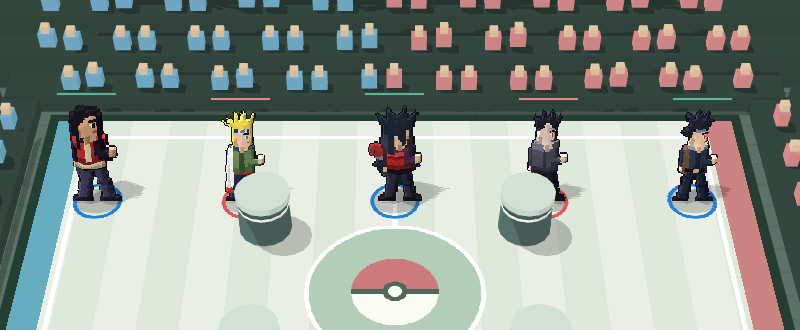
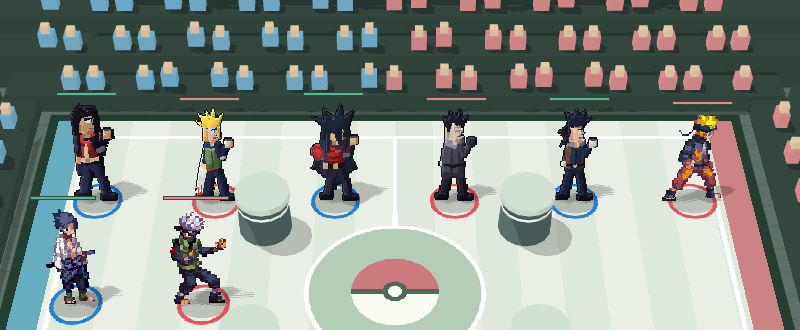
Naruto: os cinco lendários redesenhados (proporção de luta, mais detalhe)

diff --git a/ferramentas/sprites-lendarios.py b/ferramentas/sprites-lendarios.py
@@ -13,8 +13,8 @@ from PIL import Image, ImageDraw
 
 RAIZ = os.path.join(os.path.dirname(os.path.abspath(__file__)), "..")
 SAIDA = os.path.join(RAIZ, "public", "galeramon", "naruto-sprites")
-W, H = 40, 62
-DY = 5  # tudo é desenhado DY pixels mais para baixo, para as pontas do cabelo caberem em cima
+W, H = 42, 72
+DY = 9  # tudo é desenhado DY pixels mais para baixo, para as pontas do cabelo caberem em cima
 CONTORNO = (22, 18, 30, 255)
 
 
@@ -77,151 +77,167 @@ class Tela:
         return self.im
 
 
-# ---------- as peças que todos têm ----------
-def pernas(t, calca, sombra, sapato, b, afasta=0):
-    # a perna de trás e a da frente (a da frente vai um pouco mais para a frente)
-    # a guarda: a perna de trás vai para trás e a da frente se abre para a frente
-    t.pol([(14, 37), (20, 37), (17, 53), (11, 53)], sombra); t.pol([(14, 37), (19, 37), (15, 53), (11, 53)], calca)
-    t.pol([(21, 37), (27, 37), (31, 53), (25, 53)], calca); t.pol([(25, 37), (27, 37), (31, 53), (29, 53)], sombra)
-    t.ret(24, 45, 29, 46, sombra)  # o joelho
-    t.ret(8, 54, 17, 57, sapato); t.ret(24, 54, 34, 57, sapato)
-    t.ret(8, 57, 17, 57, sombra); t.ret(24, 57, 34, 57, sombra)
+# ---------- o esqueleto que todos têm ----------
+# Proporção de luta de anime: a cabeça tem uns 11 pixels, o tronco 17 e as pernas 22. De lado, com a guarda levantada.
+def pernas(t, calca, sombra, sapato, b):
+    # a perna de trás vai para trás, esticada; a da frente se dobra no joelho e pisa mais à frente
+    t.pol([(16, 36), (21, 36), (17, 57), (11, 57)], sombra)
+    t.pol([(16, 36), (20, 36), (15, 57), (11, 57)], calca)
+    t.pol([(21, 36), (26, 36), (29, 47), (24, 47)], calca); t.pol([(24, 36), (26, 36), (29, 47), (27, 47)], sombra)
+    t.pol([(24, 47), (29, 47), (31, 58), (26, 58)], calca); t.pol([(28, 47), (29, 47), (31, 58), (29, 58)], sombra)
+    t.ret(8, 57, 17, 60, sapato); t.ret(25, 58, 35, 61, sapato)
+    t.ret(8, 60, 17, 60, "#14101c"); t.ret(25, 61, 35, 61, "#14101c")
 
 
-def cabeca(t, pele, sombra, b, olho="#16121e", y0=7):
-    y = y0 - b
-    t.elipse(15, y, 26, y + 12, pele)
-    t.ret(16, y + 9, 25, y + 12, pele)
-    t.ret(15, y + 8, 17, y + 12, sombra)  # o lado de trás do rosto
-    t.ret(19, y + 12, 24, y + 14, pele)   # o queixo e o pescoço
-    t.ret(20, y + 12, 21, y + 15, sombra)
-    t.px(22, y + 6, "#f4f0ec"); t.px(23, y + 6, "#f4f0ec"); t.px(24, y + 6, olho); t.px(24, y + 7, olho); t.px(23, y + 7, "#f4f0ec")  # o olho (de lado)
-    t.ret(22, y + 4, 25, y + 4, "#16121e")  # a sobrancelha
-    t.px(26, y + 8, sombra); t.px(26, y + 9, sombra)  # o nariz
-    t.px(24, y + 10, "#8a5a50"); t.px(25, y + 10, "#8a5a50")  # a boca
+def pescoco(t, pele, sombra, b):
+    t.ret(19, 16 - b, 22, 20 - b, pele); t.ret(19, 16 - b, 20, 20 - b, sombra)
 
 
-def braco_de_tras(t, manga, sombra, mao, b):
-    t.ret(10, 23 - b, 13, 35 - b, sombra)
-    t.ret(10, 34 - b, 13, 36 - b, mao)
+def cabeca(t, pele, sombra, b, olho="#16121e", brilho=None):
+    y = 5 - b
+    t.elipse(15, y, 25, y + 11, pele)           # o crânio e o rosto
+    t.ret(16, y + 9, 25, y + 12, pele)           # a mandíbula
+    t.ret(15, y + 5, 17, y + 11, sombra)         # o lado de trás do rosto, na sombra
+    t.ret(22, y + 12, 24, y + 13, sombra)        # a sombra do queixo
+    t.px(26, y + 7, sombra); t.px(26, y + 8, sombra)                   # o nariz
+    t.ret(23, y + 10, 25, y + 10, "#8a5a50")                           # a boca
+    t.ret(21, y + 4, 25, y + 4, "#16121e")                             # a sobrancelha
+    t.ret(22, y + 5, 24, y + 6, "#f4f0ec"); t.px(24, y + 5, olho); t.px(24, y + 6, olho)  # o olho
+    if brilho:
+        t.px(23, y + 5, brilho)
 
 
-def braco_da_frente(t, manga, sombra, mao, b):
-    # o braço dobrado com o punho levantado, como na guarda dos sprites de DS
-    t.ret(24, 22 - b, 28, 29 - b, manga); t.ret(27, 22 - b, 28, 29 - b, sombra)
-    t.ret(25, 28 - b, 32, 32 - b, manga); t.ret(25, 31 - b, 32, 32 - b, sombra)
-    t.ret(31, 27 - b, 34, 31 - b, mao)
-    t.px(34, 27 - b, mao)
+def braco_de_tras(t, manga, sombra, pele, b):
+    t.pol([(14, 21 - b), (17, 21 - b), (15, 34 - b), (12, 34 - b)], sombra)
+    t.pol([(14, 21 - b), (16, 21 - b), (14, 34 - b), (12, 34 - b)], manga)
+    t.ret(11, 34 - b, 15, 37 - b, pele)
 
 
-def tronco(t, base, sombra, b, topo=20):
-    y = topo - b
-    t.ret(13, y + 1, 27, 37, base)
-    t.ret(12, y, 28, y + 3, base)
-    t.ret(24, y + 3, 27, 37, sombra)
-    t.ret(13, 35, 27, 37, sombra)
+def braco_da_frente(t, manga, sombra, pele, b, luva=None):
+    # o braço dobrado: o ombro, o cotovelo para baixo e o punho levantado na guarda
+    t.pol([(23, 21 - b), (27, 21 - b), (30, 30 - b), (26, 31 - b)], manga); t.pol([(26, 22 - b), (27, 21 - b), (30, 30 - b), (28, 31 - b)], sombra)
+    t.pol([(26, 29 - b), (30, 29 - b), (34, 22 - b), (30, 21 - b)], manga); t.pol([(29, 28 - b), (30, 29 - b), (34, 22 - b), (33, 21 - b)], sombra)
+    t.ret(31, 17 - b, 36, 22 - b, luva or pele); t.ret(31, 17 - b, 36, 17 - b, sombra if luva is None else "#2a2a34")
+
+
+def tronco(t, base, sombra, b):
+    t.pol([(15, 20 - b), (27, 20 - b), (26, 36), (15, 36)], base)
+    t.pol([(23, 21 - b), (27, 20 - b), (26, 36), (22, 36)], sombra)
+    t.ret(15, 33, 26, 36, sombra)
 
 
 def cinto(t, c, fivela, b=0):
-    t.ret(13, 34, 27, 35, c)
-    t.px(20, 34, fivela); t.px(21, 34, fivela)
+    t.ret(15, 33, 26, 35, c)
+    t.ret(19, 33, 21, 35, fivela)
 
 
 # ---------- cada ninja ----------
 def hashirama(t, b):
     pele, sp = "#c89a74", "#9c7250"
-    cabelo, cb = "#16121e", "#2c2a3c"
-    # o cabelo comprido, caindo pelas costas
-    t.pol([(11, 8 - b), (16, 5 - b), (25, 6 - b), (27, 12 - b), (28, 30), (25, 42), (13, 41), (10, 30), (10, 14 - b)], cabelo)
-    t.ret(12, 22, 14, 41, cb)
-    pernas(t, "#3c3c58", "#2a2a40", "#1c1824", b)
-    braco_de_tras(t, "#16121e", "#16121e", pele, b)
-    tronco(t, "#1c1824", "#120e18", b)
-    # a armadura vermelha: o peitoral, as ombreiras e a faixa
-    t.ret(13, 22 - b, 27, 33, "#b02c2c"); t.ret(24, 24 - b, 27, 33, "#7a1c24"); t.ret(13, 31, 27, 33, "#7a1c24")
-    t.ret(11, 20 - b, 16, 25 - b, "#c43838"); t.ret(11, 24 - b, 16, 25 - b, "#7a1c24")
-    t.ret(24, 20 - b, 29, 25 - b, "#c43838"); t.ret(24, 24 - b, 29, 25 - b, "#7a1c24")
-    t.ret(19, 22 - b, 21, 32, "#d8c8a0")  # o detalhe branco do meio
-    t.ret(13, 34, 27, 36, "#d8c8a0"); t.ret(13, 36, 27, 36, "#a89878")  # o cinto
-    braco_da_frente(t, "#1c1824", "#120e18", pele, b)
+    cabelo, cb, cc = "#14101c", "#2a2a3c", "#3c3c52"
+    # o cabelo comprido e liso, caindo pelas costas até a cintura
+    t.pol([(12, 7 - b), (16, 2 - b), (26, 3 - b), (28, 9 - b), (29, 30), (27, 46), (17, 47), (11, 40), (11, 26), (11, 12 - b)], cabelo)
+    t.pol([(11, 18), (13, 18), (14, 44), (11, 44)], cb)
+    pernas(t, "#2c3050", "#1c2038", "#1c1824", b)
+    braco_de_tras(t, "#1c1824", "#12101a", pele, b)
+    tronco(t, "#1c1824", "#12101a", b)
+    # a armadura vermelha: o peitoral, as ombreiras e as tiras
+    t.pol([(15, 22 - b), (26, 22 - b), (25, 33), (16, 33)], "#b02c2c"); t.pol([(23, 23 - b), (26, 22 - b), (25, 33), (22, 33)], "#7a1c24")
+    t.ret(15, 22 - b, 26, 23 - b, "#d84a4a")
+    t.ret(19, 24 - b, 21, 32, "#d8c8a0")
+    t.ret(13, 19 - b, 19, 25 - b, "#c43838"); t.ret(13, 24 - b, 19, 25 - b, "#7a1c24")
+    t.ret(23, 19 - b, 29, 25 - b, "#c43838"); t.ret(23, 24 - b, 29, 25 - b, "#7a1c24")
+    cinto(t, "#d8c8a0", "#a89878")
+    braco_da_frente(t, "#1c1824", "#12101a", pele, b, luva=pele)
+    t.ret(26, 28 - b, 30, 30 - b, "#6a6a7a")  # a munhequeira de metal
+    pescoco(t, pele, sp, b)
     cabeca(t, pele, sp, b)
-    # a franja e as mechas na frente do rosto
-    t.pol([(14, 8 - b), (18, 5 - b), (26, 6 - b), (27, 9 - b), (23, 8 - b), (19, 10 - b), (15, 14 - b)], cabelo)
-    t.ret(14, 9 - b, 15, 26, cabelo); t.ret(26, 9 - b, 27, 23, cabelo)
-    t.px(22, 8 - b, cb); t.px(21, 7 - b, cb)
+    # a franja e as mechas lisas na frente dos ombros
+    t.pol([(14, 8 - b), (17, 3 - b), (26, 4 - b), (27, 8 - b), (23, 7 - b), (18, 9 - b), (15, 15 - b)], cabelo)
+    t.ret(13, 8 - b, 15, 30, cabelo); t.ret(26, 8 - b, 28, 27, cabelo)
+    t.px(22, 5 - b, cc); t.px(20, 4 - b, cc); t.ret(13, 20, 13, 28, cc)
 
 
 def minato(t, b):
     pele, sp = "#f0c4a8", "#c89a80"
     ouro, ob = "#f0d048", "#c89c28"
+    # o casaco branco de Hokage nas costas, com a barra de chamas vermelhas
+    t.pol([(14, 22 - b), (16, 20 - b), (15, 48), (6, 55), (9, 38)], "#f4f4f0"); t.pol([(6, 55), (15, 48), (15, 52), (8, 58)], "#f4f4f0")
+    t.pol([(9, 38), (15, 38), (15, 48), (7, 54)], "#dcdcd4")
+    for i, (x0, x1) in enumerate([(6, 8), (9, 11), (12, 14)]):
+        t.pol([(x0, 58), (x1, 58), ((x0 + x1) // 2, 52 - (i % 2) * 2)], "#d03a2a")
     pernas(t, "#242c4c", "#181e38", "#14121c", b)
-    braco_de_tras(t, "#6a8a58", "#4a6a3c", pele, b)
+    braco_de_tras(t, "#242c4c", "#181e38", pele, b)
     tronco(t, "#242c4c", "#181e38", b)
-    # o colete verde de Konoha
-    t.ret(13, 22 - b, 27, 35, "#6a8a58"); t.ret(24, 24 - b, 27, 35, "#4a6a3c"); t.ret(13, 33, 27, 35, "#4a6a3c")
-    t.ret(19, 21 - b, 21, 35, "#3a5230")  # o zíper
-    t.ret(12, 20 - b, 28, 22 - b, "#3a5230")
-    t.ret(17, 19 - b, 24, 21 - b, "#1c3a78")  # a gola azul
-    t.ret(17, 20, 17, 20, "#1c3a78")
-    t.ret(13, 36, 27, 37, "#c43838"); t.ret(13, 37, 27, 37, "#8a2020")  # a barra vermelha do casaco
-    braco_da_frente(t, "#6a8a58", "#4a6a3c", pele, b)
-    # o casaco branco de Hokage nas costas
-    t.pol([(11, 22 - b), (13, 20 - b), (13, 44), (8, 50), (9, 36)], "#f4f4f0"); t.ret(8, 47, 12, 50, "#c43838"); t.ret(10, 30, 11, 46, "#d8d8d0")
-    cabeca(t, pele, sp, b, olho="#3a78d0")
-    # a testa: a bandana azul com a placa prateada
-    t.ret(15, 8 - b, 26, 10 - b, "#1c3a78"); t.ret(19, 7 - b, 24, 10 - b, "#d8dce8"); t.ret(21, 8 - b, 22, 9 - b, "#7a8098")
-    # o cabelo amarelo espetado, com as duas mechas na frente do rosto
-    t.pol([(14, 8 - b), (11, 2 - b), (16, 5 - b), (16, -1 - b), (20, 4 - b), (22, -2 - b), (24, 4 - b), (29, 0 - b), (27, 8 - b), (14, 8 - b)], ouro)
-    t.pol([(13, 6 - b), (8, 4 - b), (14, 9 - b)], ouro)
-    t.ret(14, 9 - b, 15, 19 - b, ouro); t.ret(14, 17 - b, 15, 19 - b, ob)
-    t.ret(26, 9 - b, 27, 18 - b, ouro); t.ret(27, 15 - b, 27, 18 - b, ob)
-    t.px(18, 3 - b, ob); t.px(22, 1 - b, ob); t.px(26, 4 - b, ob)
+    # o colete verde de Konoha com a gola azul
+    t.pol([(15, 22 - b), (26, 22 - b), (26, 36), (15, 36)], "#6a8a58"); t.pol([(23, 23 - b), (26, 22 - b), (26, 36), (22, 36)], "#4a6a3c")
+    t.ret(15, 33, 26, 36, "#4a6a3c"); t.ret(20, 22 - b, 21, 36, "#3a5230")
+    t.ret(15, 22 - b, 26, 23 - b, "#8aaa72")
+    t.ret(15, 19 - b, 26, 22 - b, "#1c3a78"); t.ret(23, 20 - b, 26, 22 - b, "#142a58")
+    t.ret(15, 36, 26, 36, "#d03a2a")
+    braco_da_frente(t, "#242c4c", "#181e38", pele, b, luva=pele)
+    t.ret(27, 29 - b, 30, 31 - b, "#c8ccd8")  # o protetor de braço
+    pescoco(t, pele, sp, b)
+    cabeca(t, pele, sp, b, olho="#3a78d0", brilho="#ffffff")
+    # a bandana azul com a placa prateada
+    t.ret(15, 6 - b, 25, 8 - b, "#1c3a78"); t.ret(19, 5 - b, 24, 8 - b, "#d8dce8"); t.ret(19, 5 - b, 24, 5 - b, "#f4f6fc"); t.ret(21, 6 - b, 22, 7 - b, "#7a8098")
+    # o cabelo amarelo espetado, com as duas mechas compridas na frente do rosto
+    t.pol([(15, 6 - b), (12, 0 - b), (17, 3 - b), (17, -4 - b), (21, 2 - b), (23, -5 - b), (25, 2 - b), (30, -2 - b), (27, 6 - b)], ouro)
+    t.pol([(15, 5 - b), (9, 3 - b), (14, 8 - b)], ouro); t.pol([(16, 3 - b), (11, -2 - b), (18, 1 - b)], ouro)
+    t.ret(14, 8 - b, 16, 18 - b, ouro); t.ret(14, 15 - b, 16, 18 - b, ob)
+    t.ret(26, 8 - b, 27, 16 - b, ouro); t.ret(27, 13 - b, 27, 16 - b, ob)
+    t.px(19, 1 - b, ob); t.px(23, -1 - b, ob); t.px(27, 1 - b, ob)
 
 
 def madara(t, b):
     pele, sp = "#d8b496", "#a88468"
-    cabelo, cb = "#1c2430", "#2c3848"
-    # o cabelo enorme: muitas pontas pelas costas
-    t.pol([(10, 10 - b), (6, 2 - b), (13, 6 - b), (13, -1 - b), (19, 5 - b), (24, -2 - b), (25, 5 - b), (31, 1 - b), (28, 12 - b), (30, 24), (26, 40), (20, 46), (14, 42), (7, 36), (9, 22)], cabelo)
-    t.pol([(8, 24), (4, 34), (10, 38)], cabelo); t.pol([(28, 26), (33, 34), (27, 38)], cabelo)
-    t.ret(10, 14, 13, 40, cb)
+    cabelo, cb, cc = "#1c2430", "#2c3848", "#3c4c60"
+    # o cabelo enorme e espetado, para todos os lados, até a cintura
+    t.pol([(11, 10 - b), (4, 3 - b), (13, 6 - b), (12, -3 - b), (19, 4 - b), (24, -5 - b), (26, 3 - b), (33, -1 - b), (29, 11 - b), (33, 24), (28, 42), (21, 50), (14, 46), (6, 40), (9, 22)], cabelo)
+    t.pol([(8, 26), (2, 38), (10, 40)], cabelo); t.pol([(29, 28), (35, 38), (28, 42)], cabelo)
+    t.pol([(11, 18), (14, 18), (13, 44), (9, 40)], cb)
+    # o leque de guerra preso às costas
+    t.elipse(2, 22, 11, 32, "#9a2a2a"); t.elipse(4, 24, 9, 30, "#c43838"); t.px(6, 27, "#16121e"); t.ret(10, 30, 15, 31, "#6a6a7a")
     pernas(t, "#2a2a3c", "#1a1a28", "#14121c", b)
     braco_de_tras(t, "#4a2c44", "#34202e", pele, b)
     tronco(t, "#4a2c44", "#34202e", b)
-    # a armadura vermelha e a gola alta
-    t.ret(13, 24 - b, 27, 34, "#b02828"); t.ret(24, 26 - b, 27, 34, "#7a1818"); t.ret(13, 31, 27, 34, "#7a1818")
-    t.ret(13, 24 - b, 27, 25 - b, "#d84040"); t.ret(14, 26, 26, 27, "#7a1818")
-    t.ret(11, 19 - b, 17, 24 - b, "#4a2c44"); t.ret(15, 17 - b, 28, 21 - b, "#4a2c44"); t.ret(24, 18 - b, 28, 24 - b, "#34202e")
-    t.ret(13, 35, 27, 37, "#16121e")
-    braco_da_frente(t, "#4a2c44", "#34202e", pele, b)
+    # a armadura vermelha e a gola alta roxa
+    t.pol([(15, 24 - b), (26, 24 - b), (25, 34), (16, 34)], "#b02828"); t.pol([(23, 25 - b), (26, 24 - b), (25, 34), (22, 34)], "#7a1818")
+    t.ret(15, 24 - b, 26, 25 - b, "#e04848"); t.ret(16, 28, 25, 29, "#7a1818"); t.ret(16, 31, 25, 32, "#7a1818")
+    t.ret(13, 19 - b, 19, 25 - b, "#c43838"); t.ret(13, 24 - b, 19, 25 - b, "#7a1818")
+    t.ret(15, 17 - b, 27, 22 - b, "#4a2c44"); t.ret(23, 18 - b, 27, 23 - b, "#34202e"); t.ret(15, 17 - b, 27, 17 - b, "#6a4262")
+    cinto(t, "#16121e", "#c8b878")
+    braco_da_frente(t, "#4a2c44", "#34202e", pele, b, luva=pele)
+    t.ret(26, 28 - b, 30, 30 - b, "#6a6a7a")
+    pescoco(t, pele, sp, b)
     cabeca(t, pele, sp, b, olho="#d02020")
-    # o cabelo na frente: cobre o olho de trás
-    t.pol([(14, 7 - b), (18, 3 - b), (27, 5 - b), (28, 12 - b), (24, 11 - b), (21, 17 - b), (19, 11 - b), (15, 14 - b)], cabelo)
-    t.ret(14, 9 - b, 16, 24 - b, cabelo); t.ret(22, 9 - b, 24, 19 - b, cabelo)
-    t.px(18, 6 - b, cb); t.px(23, 5 - b, cb)
-    # o leque de guerra nas costas
-    t.ret(5, 27, 9, 29, "#7a7a8a"); t.elipse(1, 20, 9, 28, "#9a2a2a"); t.px(4, 24, "#16121e")
+    # o cabelo na frente cobre o olho de trás e parte do rosto
+    t.pol([(14, 8 - b), (18, 2 - b), (28, 4 - b), (29, 12 - b), (24, 10 - b), (21, 17 - b), (19, 11 - b), (15, 15 - b)], cabelo)
+    t.ret(13, 8 - b, 16, 26 - b, cabelo); t.ret(22, 8 - b, 24, 19 - b, cabelo)
+    t.px(19, 4 - b, cc); t.px(24, 3 - b, cc); t.ret(14, 14, 14, 24, cc)
 
 
 def obito(t, b):
     pele, sp = "#d8c4b4", "#a89484"
-    cabelo, cb = "#1c1c28", "#34344a"
-    pernas(t, "#1c1c28", "#12121c", "#14121c", b)
+    cabelo, cb = "#1c1c28", "#3c3c52"
+    pernas(t, "#22222e", "#14141c", "#14121c", b)
     braco_de_tras(t, "#4a4a58", "#32323e", pele, b)
     tronco(t, "#3a3a48", "#26262e", b)
-    # a capa cinza com a gola alta
-    t.ret(12, 20 - b, 28, 37, "#4a4a58"); t.ret(24, 22 - b, 28, 37, "#32323e"); t.ret(12, 34, 28, 37, "#32323e")
-    t.ret(13, 18 - b, 28, 22 - b, "#6a6a7c"); t.ret(24, 19 - b, 28, 22 - b, "#4a4a58")
-    t.ret(19, 22 - b, 20, 36, "#32323e")
-    t.ret(13, 36, 28, 37, "#1c1c28")
-    braco_da_frente(t, "#4a4a58", "#32323e", pele, b)
+    # a capa cinza de gola alta, comprida até os joelhos
+    t.pol([(14, 21 - b), (27, 21 - b), (28, 44), (13, 44)], "#4a4a58"); t.pol([(24, 22 - b), (27, 21 - b), (28, 44), (24, 44)], "#32323e")
+    t.ret(13, 40, 28, 44, "#32323e"); t.ret(19, 24 - b, 20, 43, "#32323e")
+    t.ret(15, 16 - b, 27, 22 - b, "#8a8a9c"); t.ret(24, 17 - b, 27, 23 - b, "#6a6a7c"); t.ret(15, 16 - b, 27, 16 - b, "#aaaabc")
+    t.ret(14, 34, 27, 35, "#1c1c28")
+    braco_da_frente(t, "#4a4a58", "#32323e", pele, b, luva="#2a2a34")
+    pescoco(t, pele, sp, b)
     cabeca(t, pele, sp, b, olho="#d02020")
-    # as cicatrizes do lado do rosto
-    t.ret(22, 9 - b, 25, 9 - b, "#a89484"); t.px(23, 11 - b, "#a89484"); t.px(25, 12 - b, "#a89484"); t.ret(21, 8 - b, 21, 11 - b, "#b8a494")
-    t.px(23, 7 - b, "#e8e0d8")  # o olho de trás, claro
+    # a pele do lado direito do rosto, branca, com as cicatrizes
+    t.pol([(20, 6 - b), (25, 6 - b), (26, 12 - b), (21, 16 - b)], "#e4dcd4")
+    t.ret(21, 8 - b, 25, 8 - b, "#a89484"); t.ret(22, 11 - b, 25, 11 - b, "#a89484"); t.px(23, 9 - b, "#a89484"); t.px(24, 13 - b, "#a89484"); t.ret(21, 6 - b, 21, 10 - b, "#b8a494")
+    t.ret(22, 5 - b, 24, 6 - b, "#f4f0ec"); t.px(24, 5 - b, "#d02020"); t.px(24, 6 - b, "#d02020")
     # o cabelo curto e espetado
-    t.pol([(14, 8 - b), (13, 3 - b), (17, 5 - b), (18, 0 - b), (21, 4 - b), (24, 0 - b), (26, 5 - b), (29, 3 - b), (27, 9 - b), (24, 8 - b), (20, 6 - b), (15, 11 - b)], cabelo)
-    t.px(18, 3 - b, cb); t.px(23, 2 - b, cb)
+    t.pol([(15, 8 - b), (13, 2 - b), (17, 4 - b), (18, -2 - b), (21, 3 - b), (24, -3 - b), (26, 3 - b), (30, 1 - b), (27, 8 - b), (24, 7 - b), (20, 5 - b), (16, 12 - b)], cabelo)
+    t.px(18, 2 - b, cb); t.px(23, 0 - b, cb); t.px(27, 3 - b, cb)
 
 
 def shisui(t, b):
@@ -230,22 +246,22 @@ def shisui(t, b):
     pernas(t, "#1c2438", "#12182a", "#14121c", b)
     braco_de_tras(t, "#2c344c", "#1c2438", pele, b)
     tronco(t, "#2c344c", "#1c2438", b)
-    # o casaco azul-escuro com o acabamento marrom e o cachecol cinza
-    t.ret(12, 20 - b, 28, 37, "#2c344c"); t.ret(24, 22 - b, 28, 37, "#1c2438"); t.ret(12, 35, 28, 37, "#1c2438")
-    t.ret(12, 20 - b, 14, 37, "#6a4a38"); t.ret(26, 20 - b, 28, 37, "#4a3228")
-    t.ret(14, 18 - b, 27, 21 - b, "#8a90a0"); t.ret(14, 18 - b, 27, 18 - b, "#b8bcc8"); t.ret(24, 20 - b, 27, 21 - b, "#6a7080")
-    t.ret(19, 22 - b, 21, 36, "#1c2438")
-    t.ret(13, 34, 27, 35, "#16121e"); t.ret(19, 34, 21, 35, "#c8b878")
-    braco_da_frente(t, "#2c344c", "#1c2438", pele, b)
-    cabeca(t, pele, sp, b, olho="#e02828")
-    t.px(25, 7 - b, "#e02828")  # o sharingan (o brilho)
+    # o casaco azul-marinho com o acabamento marrom, o cachecol cinza e o leque Uchiha nas costas
+    t.pol([(14, 21 - b), (27, 21 - b), (27, 40), (14, 40)], "#2c344c"); t.pol([(24, 22 - b), (27, 21 - b), (27, 40), (24, 40)], "#1c2438")
+    t.ret(14, 21 - b, 16, 40, "#6a4a38"); t.ret(25, 21 - b, 27, 40, "#4a3228"); t.ret(14, 38, 27, 40, "#1c2438")
+    t.ret(14, 17 - b, 27, 21 - b, "#8a90a0"); t.ret(14, 17 - b, 27, 17 - b, "#c0c4d0"); t.ret(24, 19 - b, 27, 21 - b, "#6a7080")
+    t.ret(20, 22 - b, 21, 38, "#1c2438"); t.ret(14, 34, 27, 35, "#16121e"); t.ret(19, 34, 21, 35, "#c8b878")
+    braco_da_frente(t, "#2c344c", "#1c2438", pele, b, luva="#e0d8c8")
+    pescoco(t, pele, sp, b)
+    cabeca(t, pele, sp, b, olho="#e02828", brilho="#ffd0d0")
+    t.px(24, 7 - b, "#a01818")
     # a bandana preta com a placa de Konoha
-    t.ret(14, 6 - b, 26, 9 - b, "#16121e"); t.ret(18, 5 - b, 24, 9 - b, "#c8ccd8"); t.ret(18, 5 - b, 24, 5 - b, "#e8ecf4"); t.ret(18, 9 - b, 24, 9 - b, "#7a8098")
-    t.px(21, 7 - b, "#4a5068"); t.px(22, 7 - b, "#4a5068"); t.px(22, 6 - b, "#4a5068")
-    # o cabelo bagunçado
-    t.pol([(14, 6 - b), (12, 0 - b), (17, 3 - b), (20, -2 - b), (22, 3 - b), (26, -1 - b), (27, 5 - b), (29, 4 - b), (27, 8 - b), (14, 8 - b)], cabelo)
-    t.pol([(13, 8 - b), (9, 11 - b), (14, 14 - b)], cabelo); t.ret(14, 9 - b, 15, 14 - b, cabelo)
-    t.px(18, 1 - b, cb); t.px(23, 0 - b, cb); t.px(26, 3 - b, cb)
+    t.ret(14, 4 - b, 26, 7 - b, "#16121e"); t.ret(18, 3 - b, 24, 7 - b, "#c8ccd8"); t.ret(18, 3 - b, 24, 3 - b, "#f0f4fc"); t.ret(18, 7 - b, 24, 7 - b, "#7a8098")
+    t.px(21, 5 - b, "#4a5068"); t.px(22, 5 - b, "#4a5068"); t.px(22, 4 - b, "#4a5068"); t.px(21, 6 - b, "#4a5068")
+    # o cabelo bagunçado: pontas para cima e para trás, e mechas na nuca
+    t.pol([(14, 4 - b), (12, -2 - b), (17, 1 - b), (20, -4 - b), (22, 1 - b), (26, -3 - b), (27, 3 - b), (31, 2 - b), (27, 6 - b), (14, 6 - b)], cabelo)
+    t.pol([(12, 8 - b), (7, 12 - b), (13, 16 - b)], cabelo); t.pol([(13, 14 - b), (9, 22 - b), (15, 18 - b)], cabelo); t.ret(14, 7 - b, 15, 14 - b, cabelo)
+    t.px(18, -1 - b, cb); t.px(24, -2 - b, cb); t.px(28, 3 - b, cb)
 
 
 DESENHOS = {"hashirama": hashirama, "minato": minato, "madara": madara, "obito": obito, "shisui": shisui}

diff --git a/MUDANCAS.md b/MUDANCAS.md
@@ -1,21 +1,18 @@
-# Naruto: os cinco lendários desenhados em 8 bits
+# Naruto: os cinco lendários redesenhados
 
-No #101 o Primeiro Hokage, o Quarto Hokage, o Madara, o Obito e o Shisui entraram com o sprite de outro ninja com as cores
-trocadas. Agora cada um tem o seu sprite de verdade, desenhado em 8 bits.
+Os sprites em 8 bits do Primeiro Hokage, do Quarto Hokage, do Madara, do Obito e do Shisui (#102) ficaram baixinhos e
+quadrados. Desenhei de novo, com o corpo no estilo dos sprites dos jogos de DS.
 
-- **Como foram feitos:** `ferramentas/sprites-lendarios.py` desenha cada um do zero, por código (cabeça, cabelo, roupa, braços
-  e pernas), com contorno escuro, luz nas bordas de cima e sombra nas de baixo. Mesmo tamanho e mesma pose de guarda dos
-  outros ninjas, respirando em 4 quadros. O visual e as cores vêm das imagens de referência da Narutopedia (as da Dattebayo
-  API).
-- **Primeiro Hokage:** cabelo preto comprido, pele morena, armadura vermelha com ombreiras.
-- **Quarto Hokage:** cabelo loiro espetado com as duas mechas, bandana azul com a placa, colete verde e o casaco branco com
-  a barra vermelha nas costas.
-- **Madara:** cabelo enorme de pontas, franja sobre um olho, armadura vermelha com gola alta e o leque de guerra.
-- **Obito:** cabelo curto e espetado, cicatrizes no rosto, olho vermelho e a capa cinza de gola alta.
-- **Shisui:** cabelo bagunçado, bandana preta com a placa de Konoha, Sharingan e o casaco azul-marinho com cachecol.
-- Saiu o código de troca de cores de `ferramentas/sprites-naruto.py`, que só servia para esses cinco. Os `quadros` deles em
-  `naruto.js` agora são 4. `CLAUDE.md` e `NARUTO-ASSETS.md` atualizados.
-- Fotos: `planos/imagens/naruto-lendarios.png` (os cinco) e `naruto-elenco.png` (os 30 na arena).
-- Eles são mais simples e blocados que os rips dos jogos de DS. Um retoque pixel a pixel deixaria mais perto deles.
+- **Proporção de luta:** cabeça menor, tronco mais fino e pernas compridas (antes a cabeça e o tronco eram largos e as pernas
+  curtas). Todos na guarda dos outros ninjas: perna de trás esticada, a da frente dobrada no joelho e os punhos
+  levantados.
+- **Mais detalhe:** rosto com sobrancelha, olho e nariz; cabelo com brilho; braços de verdade, com cotovelo, punho e
+  protetor; pescoço; luz nas bordas de cima e sombra nas de baixo.
+- **Cada um:** Hashirama com o cabelo liso até a cintura e a armadura vermelha com ombreiras; Minato com as mechas, a bandana, o
+  colete verde e o casaco branco com as chamas na barra; Madara com o cabelo enorme, o leque de guerra e a gola alta;
+  Obito com o lado direito do rosto branco e cicatrizado e a capa cinza de gola alta; Shisui com a bandana de Konoha, o
+  Sharingan e o cachecol.
+- É só `ferramentas/sprites-lendarios.py` e os PNGs de `public/galeramon/naruto-sprites/` (`<slug>.png` e `<slug>-idle.png`);
+  nada mais mudou. Foto: `planos/imagens/naruto-lendarios.png`.
 
 🤖 Generated with [Claude Code](https://claude.com/claude-code)
